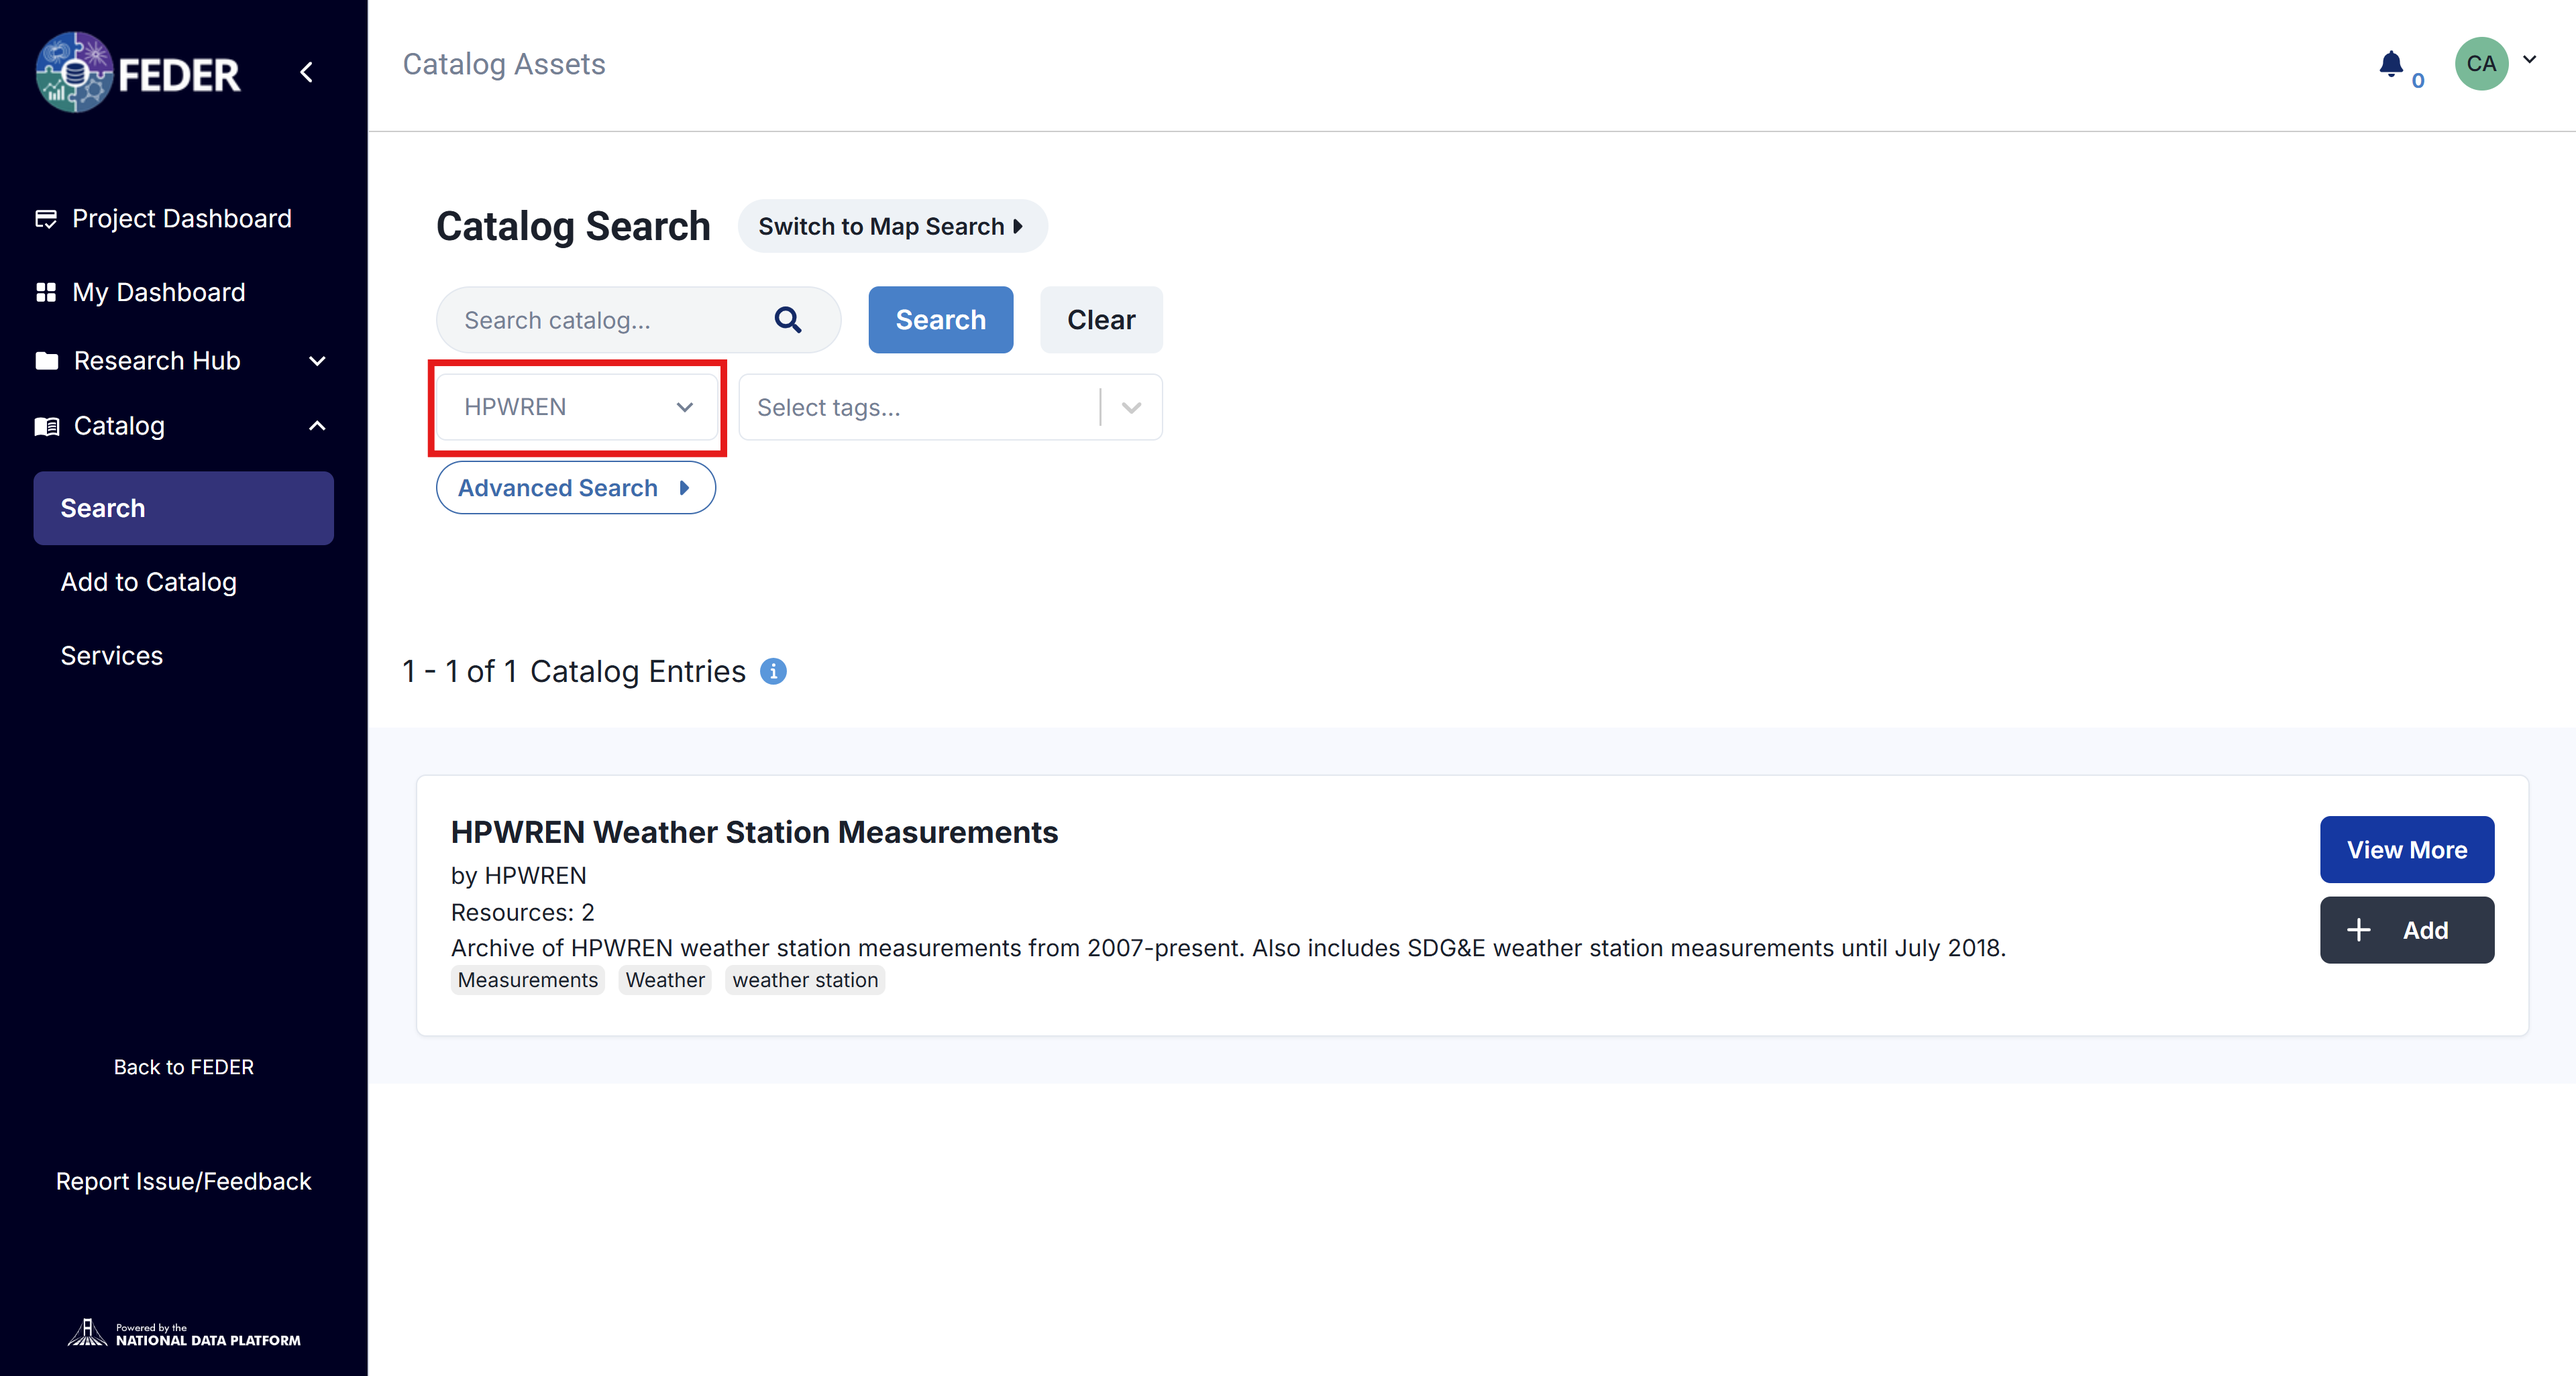
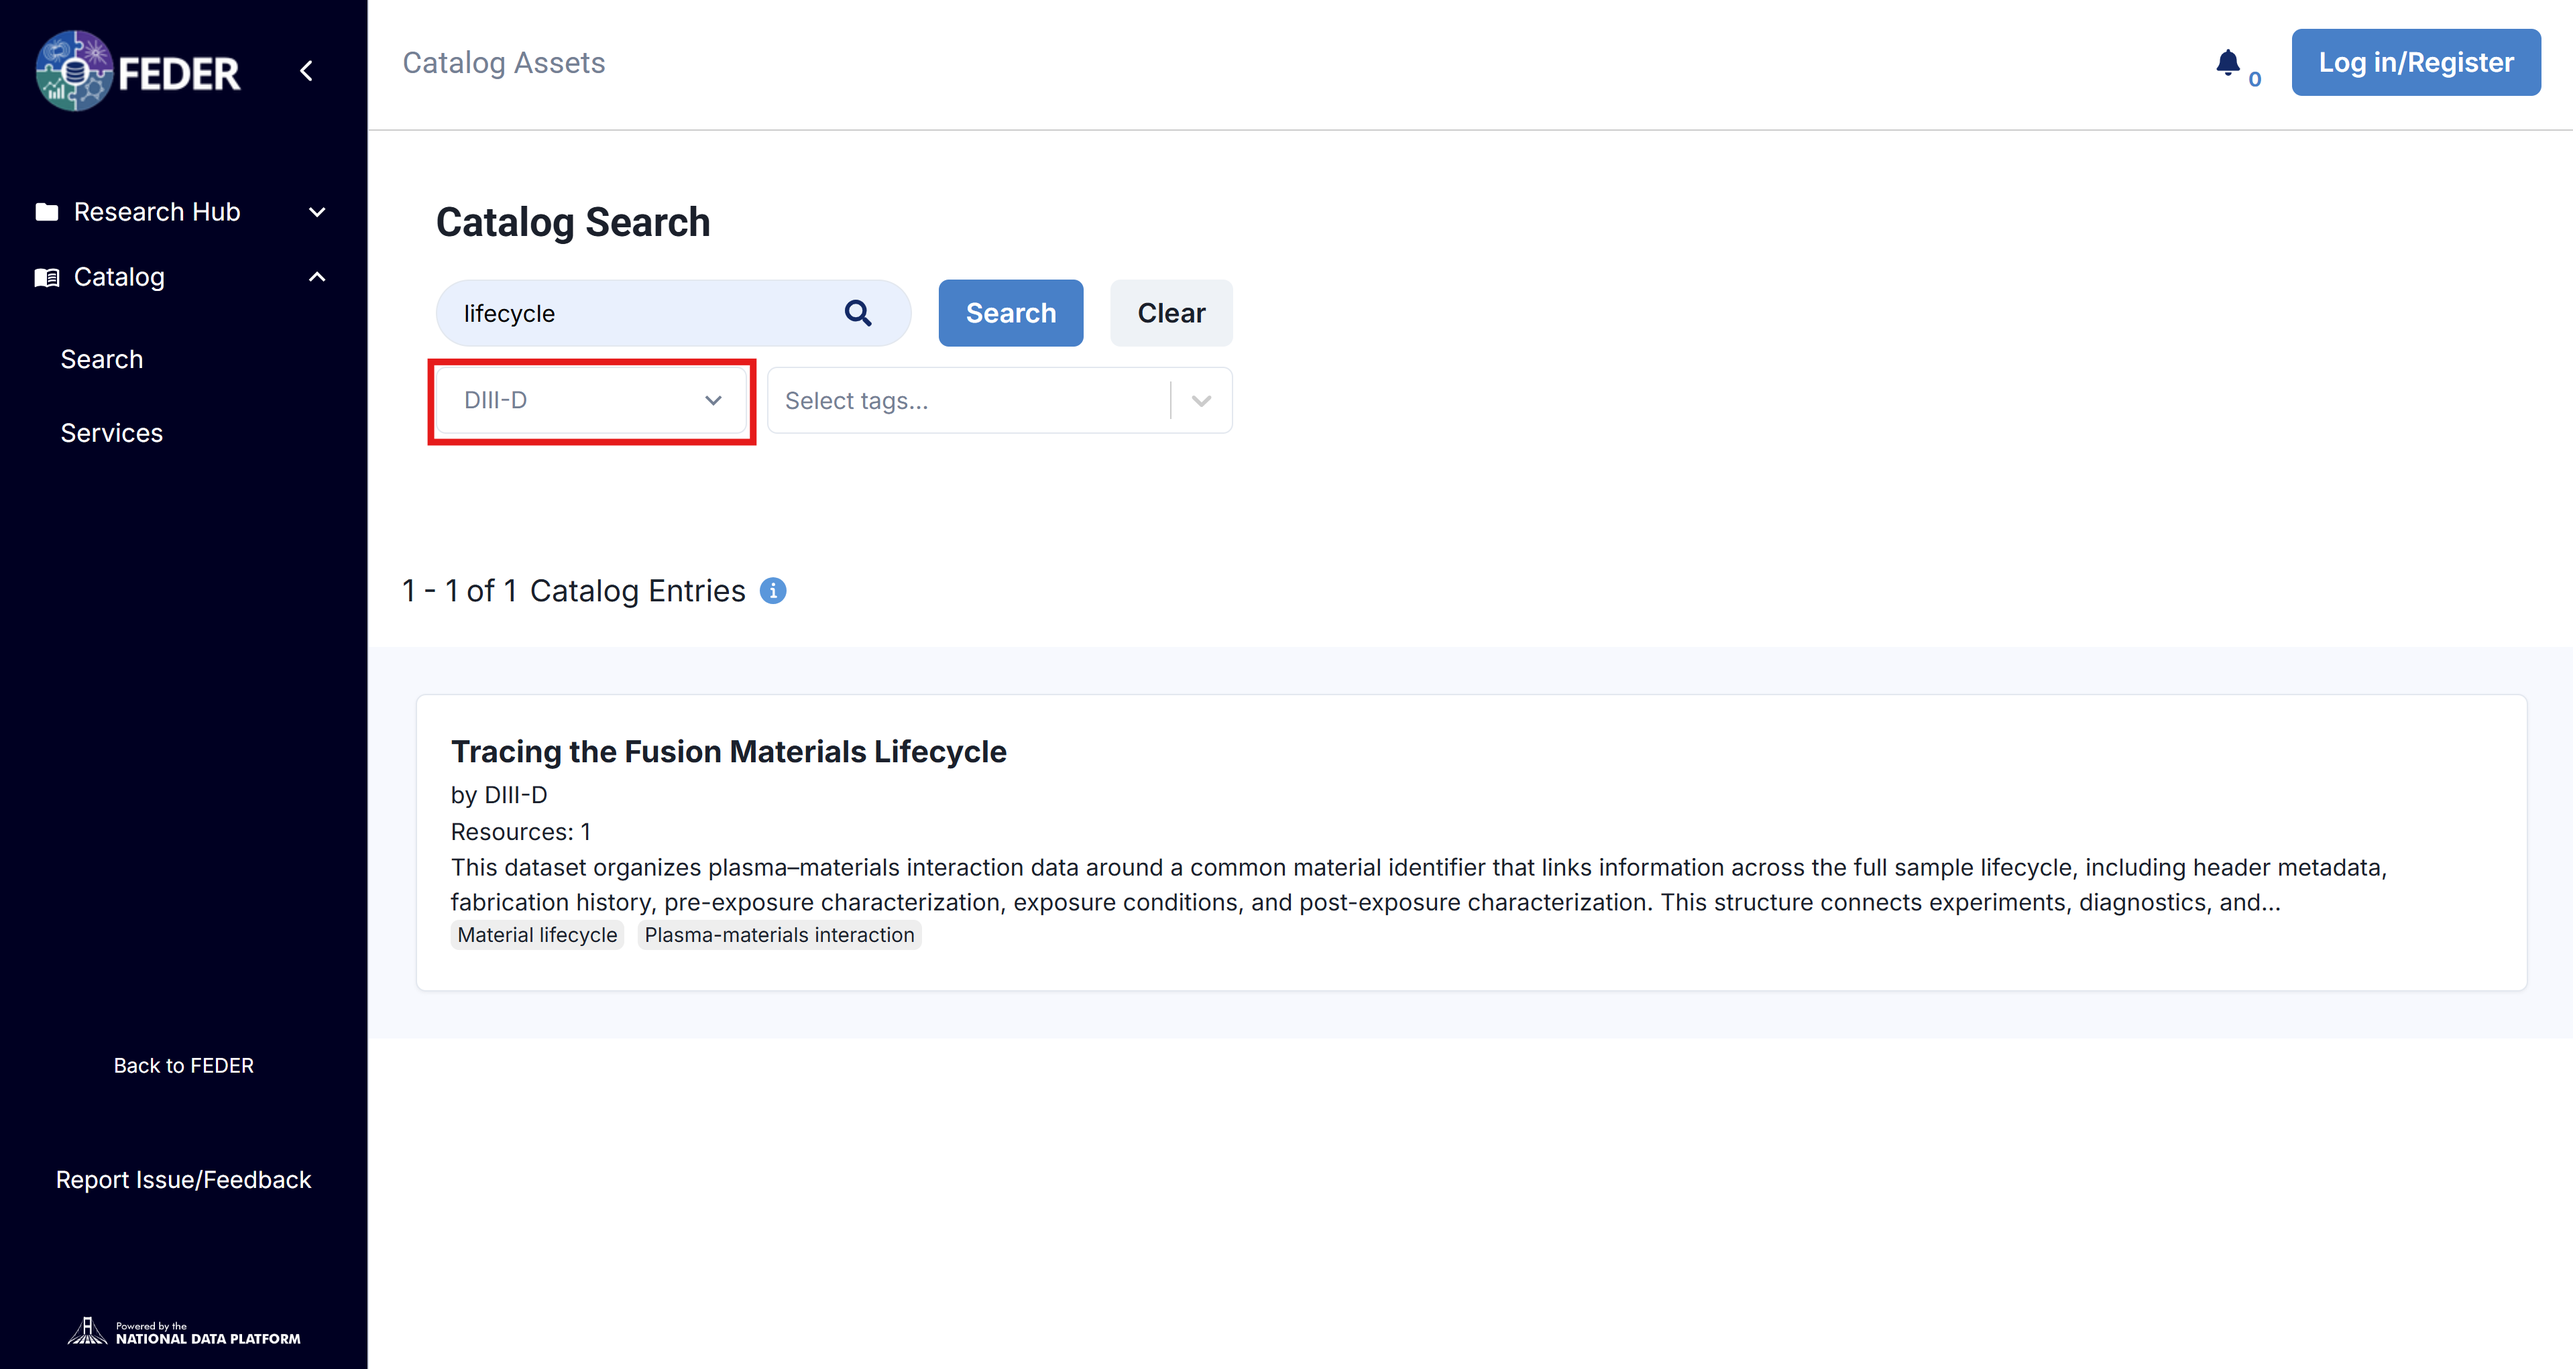
Update search and workspace examples

diff --git a/docs/getting-started/workspaces/launch-workspace.md b/docs/getting-started/workspaces/launch-workspace.md
@@ -2,35 +2,25 @@
 
 In this tutorial, you’ll learn how to work with a workspace in [JupyterHub](https://feder-jupyterhub.nrp-nautilus.io/hub/).
 
-At this point, you should have completed the [*How to create workspace*](./create-workspace.md) tutorial. If you haven’t done so yet, we highly recommend completing it first.
-
-In the previous tutorial, you set up your first workspace. Now, you'll launch it and begin working within JupyterHub.
-
 #### 1. Launch Your Workspace in JupyterHub
 
-- Go to *Research Hub --> My Hub* and click your Demo Workspace.
 
-<img src="../images/my-hub.png" style="border: 2px solid black;">
-
-- Scroll down and click the *Launch Options*. Select **NSF National Research Platform**
+- Go to *Research Hub --> My Hub* and click the workspace you want to launch.
+- Scroll down and click *Launch Options*.
+- Select the compute resource that fits your workspace. This guide covers the [**NSF National Research Platform (NRP)**](https://nrp.ai/), the main compute resource available.
 
 <img src="../images/jupyter-launch.png" style="border: 2px solid black;">
 
 #### 2. Configure Your Resources
 
-Once in JupyterHub, reserve the following resources:
+After you open JupyterHub, reserve the compute resources your workspace needs:
 
-    Region: West
-    Zone: UCSD
-    GPUs: 0
-    Cores: 1
-    RAM: 8 GB
-    GPU Type: Any
-    /dev/shm for pytorch: Do not check
-    Image: Minimal NDP Starter JupyterLab
-    Architecture: amd64
+- **Workspaces copied from the public collection:** Reserve the resources listed in the workspace's instructions.
+- **Your own workspaces, or if you're unsure what you need:** Start with the default configuration, then adjust as needed. Reserve only what your work requires, so resources stay available for other users.
 
-Click on *Start* and wait for your server to start running. 
+After you confirm your selection, your server starts. This usually takes 1–5 minutes.
+
+<img src="../images/jupyter-spawner.png" style="border: 2px solid black;">
 
 #### 3. Troubleshooting Login Issues
 
@@ -50,54 +40,54 @@ If you encounter an error when launching the server:
 
 <img src="../images/current-folder.png" style="border: 2px solid black;">
 
-- Double-click on your User Persistent Storage to work in a folder with permanent storage (10GB limit).
+- Notice the`User_Persistent_Storage`. This folder gives you 10 GB of permanent storage. Files saved anywhere else are deleted when your session ends. To keep your files between sessions, double-click the folder to open it and work there.
+
+  You can skip this step for workspaces you'll run only once, such as demos or training workspaces.
 
 - Return to the FEDER extension by clicking the *FEDER* button on the left panel.
 
 <img src="../images/ndp-button.png" style="border: 2px solid black;">
 
 
-- Open the *Select Workspace* dropdown and choose *Demo Workspace*.
+- Open the *Select Workspace* dropdown and choose your workspace.
 
 - Click *Clone into current folder* and wait for the repository to finish cloning.
 
 <img src="../images/clone.png" style="border: 2px solid black;">
 
-- Go back to *Current Folder* and open the newly created `demo-workspace` directory.
+- Go back to *Current Folder* and open the cloned directory.
 
 #### 5. Install Workspace Dependencies
 
-- Return to the FEDER extension, and click *Install requirements.txt.*
-
-- Wait for the log file to appear.
+- If the repository includes a `requirements.txt` file, return to the FEDER extension and click *Install requirements.txt*. When the installation log appears, the installation has started. Wait for it to finish before you run any code.
 
 <img src="../images/requirements.png" style="border: 2px solid black;">
 
 !!! info 
     If the .log file doesn't appear, click the button again. Sometimes, the installation completes but the log file isn’t generated on the first attempt.
 
-#### 6.  Add the Dataset
+#### 6.  Add the Dataset(s)
 
-- In the Feder extension, under *Add Selected Files*, choose:
+If the workspace instructions ask you to download datasets to the server:
 
-    - Dataset: `weather-station-measurements`
-
-    - Resource: `San Diego Weather Sample`
-
-- Check *Create Dataset Folder*.
-
-- Click Add resources to current folder to download the dataset. The download may take a few seconds.
+- Under *Add Selected Files*, select the files listed in the instructions.
+- If the instructions say to, select *Create Dataset Folder* to store the downloaded files in their own folder.
+- Click *Add resources to current folder*. Depending on the size of the data, the download can take from a few seconds to several minutes.
 
 <img src="../images/dataset.png" style="border: 2px solid black;">
 
 
-#### 7. Complete the Onboarding Notebook
+**NOTE:** The download fails if:
 
-- Go back to the *Current Folder* and open the `demo-workspace` directory.
+- You're working in `User_Persistent_Storage` and the files are larger than the space remaining in the folder (10 GB total).
+- The resource isn't a direct download URL.
+- The dataset uses a Pelican URL (one that starts with `pelican://` or `osdf://`). In this scenario, download it with the *Pelican* tools at the bottom of the extension panel instead.
 
-- Open the file `onboarding.ipynb` and complete it by following the instructions in the notebook.
+#### 7. Start your work
 
-<img src="../images/onboarding.png" style="border: 2px solid black;">
+- Return to the *Current Folder* view and open your workspace directory. Then open the notebooks or files you need and begin your project.
+
+<img src="../images/notebook.png" style="border: 2px solid black;">
 
 #### 8. Stop Your Server When Finished
 

diff --git a/docs/getting-started/workspaces/create-workspace.md b/docs/getting-started/workspaces/create-workspace.md
@@ -2,13 +2,11 @@
 
 In this tutorial, you’ll learn how to create and configure your first workspace.
 
-To follow along, we’ve provided a [demo GitHub repository](https://github.com/pramonettivega/demo-workspace/tree/main) and registered a [sample dataset](https://feder.nationaldataplatform.org/dataset/weather-station-measurements) in the FEDER Catalog.
-
 ## Setup Instructions
 
 1 - On the left panel, click *Research Hub --> My Hub* and select *New Workspace*.
 
-2 - Complete the workspace form. Since this is a demo, feel free to use the sample text provided in the `README.md` of the tutorial repository.
+2 - Complete the workspace form. 
 
 <img src="../images/workspace-form.png" style="border: 2px solid black;">
 
@@ -16,19 +14,13 @@ To follow along, we’ve provided a [demo GitHub repository](https://github.com/
 
 4 - If you need to edit the metadata of your workspace at any point, you can do so by clicking the *Edit* button in the top right corner.
 
-<img src="../images/edit.png" style="border: 2px solid black;">
+5 - Click the *Edit* button next to *Catalog Assets*. This will open a dataset search window.
 
-5 - Under *Additional Resources*, click *Add*. Type the title HPWREN Site and add the following link: `https://www.hpwren.ucsd.edu/`. Click *Add* to add the link as an additional resource.
-
-<img src="../images/additional-resources.png" style="border: 2px solid black;">
-
-6 - Click the *Edit* button next to *Catalog Assets*. This will open a dataset search window.
-
-7 - Search for `HPWREN Weather`, then click *Add* next to the `HPWREN Weather Station Measurements` dataset. Close the window once it's added.
+6 - Search for the dataset corresponding to your workspace. Once identified, click *Add*.
 
 <img src="../images/add-dataset.png" style="border: 2px solid black;">
 
-9 - Click the *Edit* button next to *Workspace Codebase*. Paste the demo GitHub repository URL: `https://github.com/pramonettivega/demo-workspace.git`. Then click *Add from external link*. Close the window once the repository is added. 
+7 - Click the *Edit* button next to *Workspace Codebase*. Paste the demo GitHub repository wit the source code for your project. Then click *Add from external link*. Close the window once the repository is added. 
 
 <img src="../images/add-repository.png" style="border: 2px solid black;">
 

diff --git a/docs/getting-started/catalog/search.md b/docs/getting-started/catalog/search.md
@@ -6,11 +6,11 @@ In this quick tutorial, you will explore some data resources to get yourself fam
 
 1 - Go to the [FEDER Catalog](https://feder.nationaldataplatform.org/ckandata).
 
-2 - Type `HPWREN Weather`. You will see a dataset called *HPWREN Weather Station Measurements* among the listings. This is a dataset that we use as part of the [*How to create workspace*](../workspaces/create-workspace.md) tutorial.
+2 - Type `lifecycle`. You will see a dataset called *Tracing the Fusion Materials Lifecycle* among the listings. 
 
-3 - To learn more about the dataset, click on *View More*. This will open a new tab where you can explore the metadata of the dataset, as well as each of its resources. For this specific asset, there are two resources. The first corresponds to a website with a map showing all the available sensors in the [HPWREN network](https://www.hpwren.ucsd.edu/). The second corresponds to a CSV file containing a sample of weather measurements.
+3 - To learn more about the dataset, click on the catalog entry. This will open a new tab where you can explore the metadata of the dataset, as well as each of its resources. For this specific asset, there are is a single resource.
 
-<img src="../images/hpwren.png" style="border: 2px solid black;">
+<img src="../images/lifecycle.png" style="border: 2px solid black;">
 
 4 - To make your substring search more precise, you can select an organization and this will filter datasets that are exclusive to that organization
 

diff --git a/docs/getting-started/workspaces/basics.md b/docs/getting-started/workspaces/basics.md
@@ -10,8 +10,6 @@ The workspace is the main unit for assembling and delivering complete research w
 
 To learn more about the collection of open workspaces and the different ways the community uses them, consult the [*Explore*](https://feder.nationaldataplatform.org/explore) section of the Research Hub.
 
-Example: [*Onboarding Module*](https://nationaldataplatform.org/workspaces/a58c985f-77d2-4514-97ff-b8d0dd30e39a?from=explore)
-
 **Community Training**
 
 Research groups and agencies that contribute datasets or services to FEDER have the opportunity to develop dedicated workspaces designed as demos or tutorials. These workspaces act as practical tools to train the broader community on how to effectively access, process, analyze, and visualize their resources. For example, a workspace might guide users through working with a sample dataset, demonstrating data utilization workflows and showcasing techniques such as live streaming analysis or real-time data visualization, helping users fully leverage the contributed resources in their own work.

diff --git a/docs/getting-started/catalog/basics.md b/docs/getting-started/catalog/basics.md
@@ -6,7 +6,7 @@ The FEDER Catalog is built through collaboration with organizations and research
 
 Each asset may consist of one or more resources, such as primary files, documentation, codebooks, and schemas, along with any other materials needed for the user to effectively work with the data.
 
-<img src="../images/resources.png" style="border: 2px solid black;">
+<img src="../images/lifecycle.png" style="border: 2px solid black;">
 
 The FEDER Data Platform provides a logically centralized, FAIR-aligned view of assets while the underlying data remains distributed and accessible through registered URLs. Assets already stored in an accessible location should remain in place and be registered in FEDER using their access URLs. For the proof of concept, FIRE Collaboratives requiring accessible storage may use the [FEDER Pelican/OSDF Origin](../../technical-tutorials/pelican-101.md); additional storage requirements can be discussed separately. The FEDER Catalog is a metadata catalog, not a data repository.
 
